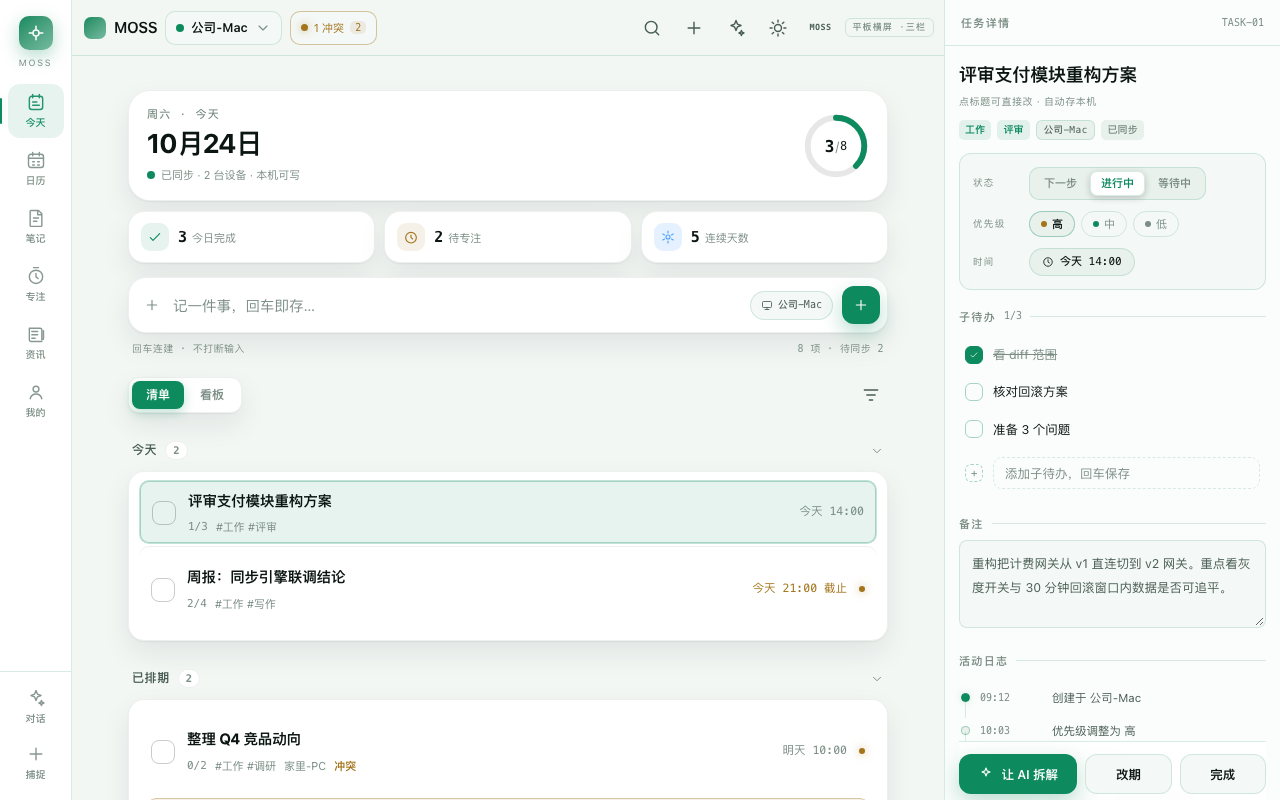
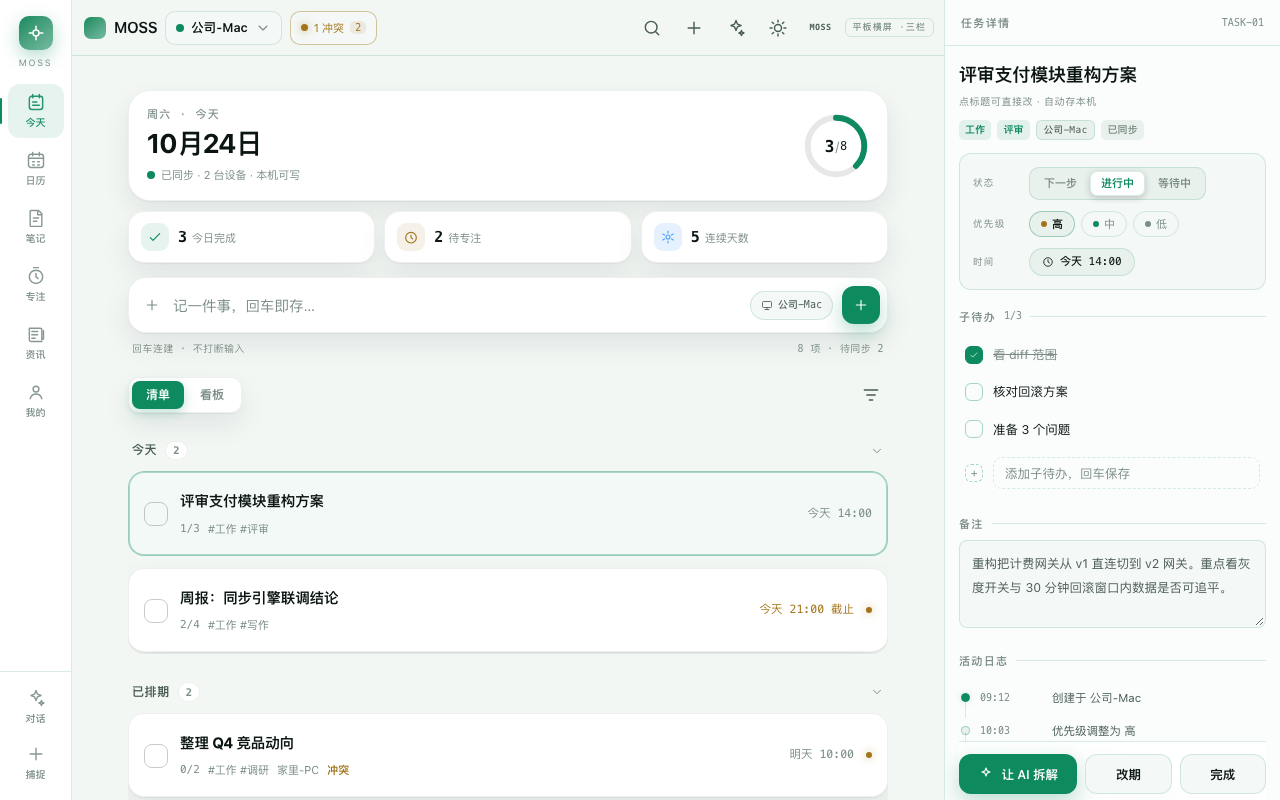
fix(prototype): 清单改为独立卡片行（修复 sel 类名撞车导致行高被强行压到 40px）
- 根因：行选中态 class="sel" 与 <select class="sel"> 的 40px 高度规则冲突
- 行选中态改名 cur，任务行改为独立白卡（16px 圆角、12px 卡间距、18px 内边距）
- 行高 40px(异常)/81px → 统一 81px，卡片间隔清晰
- verify ALL_PASS

diff --git a/docs/prototype/index.html b/docs/prototype/index.html
@@ -331,7 +331,7 @@ button{font-family:inherit;color:inherit}
 .trow{display:flex;gap:11px;align-items:flex-start;padding:12px 8px;border-radius:var(--r-md);cursor:pointer;position:relative;
   transition:background var(--t-fast) var(--ease-out),opacity var(--t-mid) var(--ease-out)}
 .trow:hover{background:var(--s2)}
-.trow.sel{background:var(--s2);box-shadow:inset 0 0 0 1px var(--bd-strong)}
+.trow.cur{background:var(--s2);box-shadow:inset 0 0 0 1px var(--bd-strong)}
 .trow.done{opacity:.62}
 .trow.done .tt{color:var(--t3)}
 .trow.done .tt .tx{text-decoration:line-through;text-decoration-color:var(--t3);text-decoration-thickness:1.2px}
@@ -985,7 +985,7 @@ body{
 .lbody .trow{display:flex;align-items:center;gap:12px;padding:13px 10px;border-radius:10px;cursor:pointer;position:relative}
 .lbody .trow + .trow{box-shadow:inset 0 1px 0 var(--card-line)}
 .lbody .trow:hover{background:color-mix(in srgb,var(--s2) 55%,transparent)}
-.lbody .trow.sel{background:var(--acc-soft);box-shadow:inset 0 0 0 1px color-mix(in srgb,var(--acc) 30%,transparent)}
+.lbody .trow.cur{background:var(--acc-soft);box-shadow:inset 0 0 0 1px color-mix(in srgb,var(--acc) 30%,transparent)}
 .lbody .trow .tbody{flex:1;min-width:0}
 .lbody .trow .tt{display:block;font-size:14.5px;font-weight:520;line-height:1.45;color:var(--t1);
   overflow:hidden;text-overflow:ellipsis;white-space:nowrap}
@@ -1073,6 +1073,26 @@ body{
 .lbody .trow + .trow{margin-top:2px}
 .lbody .trow .tt{line-height:1.55}
 .lbody .trow .tmeta{margin-top:6px}
+
+/* ═══════════ 清单：改为独立卡片行（换一种方式） ═══════════ */
+.lbody{background:transparent;border:0;box-shadow:none;padding:0}
+.lbody .trow{
+  background:var(--card);
+  border:1px solid var(--card-line);
+  border-radius:16px;
+  box-shadow:var(--sh);
+  padding:18px 15px;
+  margin:0 0 12px;
+  min-height:0;
+  transition:border-color var(--t-fast) var(--ease-out),transform var(--t-fast) var(--ease-out),box-shadow var(--t-fast) var(--ease-out);
+}
+.lbody .trow:last-child{margin-bottom:2px}
+.lbody .trow + .trow{box-shadow:var(--sh)}
+.lbody .trow:hover{border-color:color-mix(in srgb,var(--acc) 26%,transparent);transform:translateY(-1px)}
+.lbody .trow.cur{border-color:color-mix(in srgb,var(--acc) 40%,transparent);background:color-mix(in srgb,var(--acc) 5%,var(--card))}
+.lbody .trow .tt{white-space:normal;display:-webkit-box;-webkit-line-clamp:2;-webkit-box-orient:vertical;overflow:hidden}
+.lbody .trow .tmeta{margin-top:7px}
+.lbody .conflict-card{margin:-2px 0 10px}
 </style>
 </head>
 <body class="dsh" data-skin="moss" data-light="1">
@@ -2034,7 +2054,7 @@ function renderTasks() {
 function taskRowHTML(t) {
   const subDone = t.sub.filter(s => s.done).length;
   return `
-  <div class="trow ${t.done ? 'done' : ''} ${state.selTask === t.id ? 'sel' : ''} ${t.pri === '高' ? 'high' : ''}" data-task="${t.id}">
+  <div class="trow ${t.done ? 'done' : ''} ${state.selTask === t.id ? 'cur' : ''} ${t.pri === '高' ? 'high' : ''}" data-task="${t.id}">
     <button class="check ${t.done ? 'on' : ''}" data-act="toggle" data-id="${t.id}" aria-label="完成">
       <svg class="ic" viewBox="0 0 24 24"><path d="M5 13l4 4L19 7"/></svg>
     </button>
